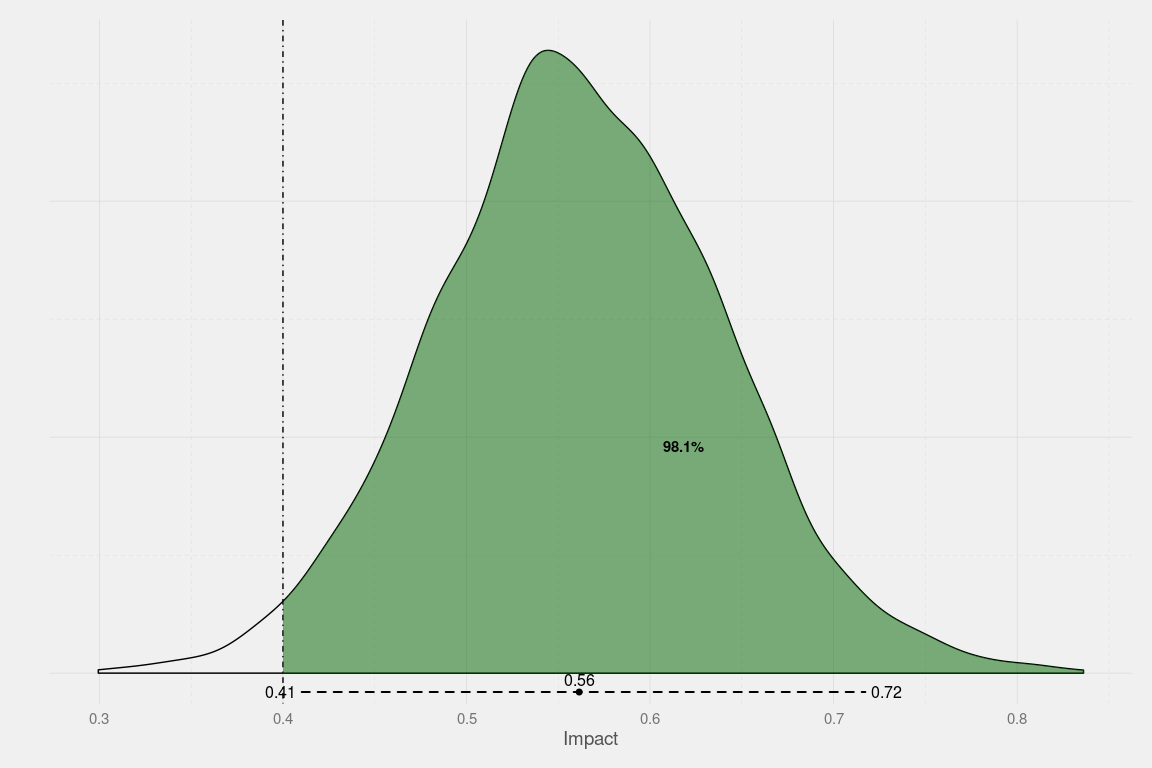
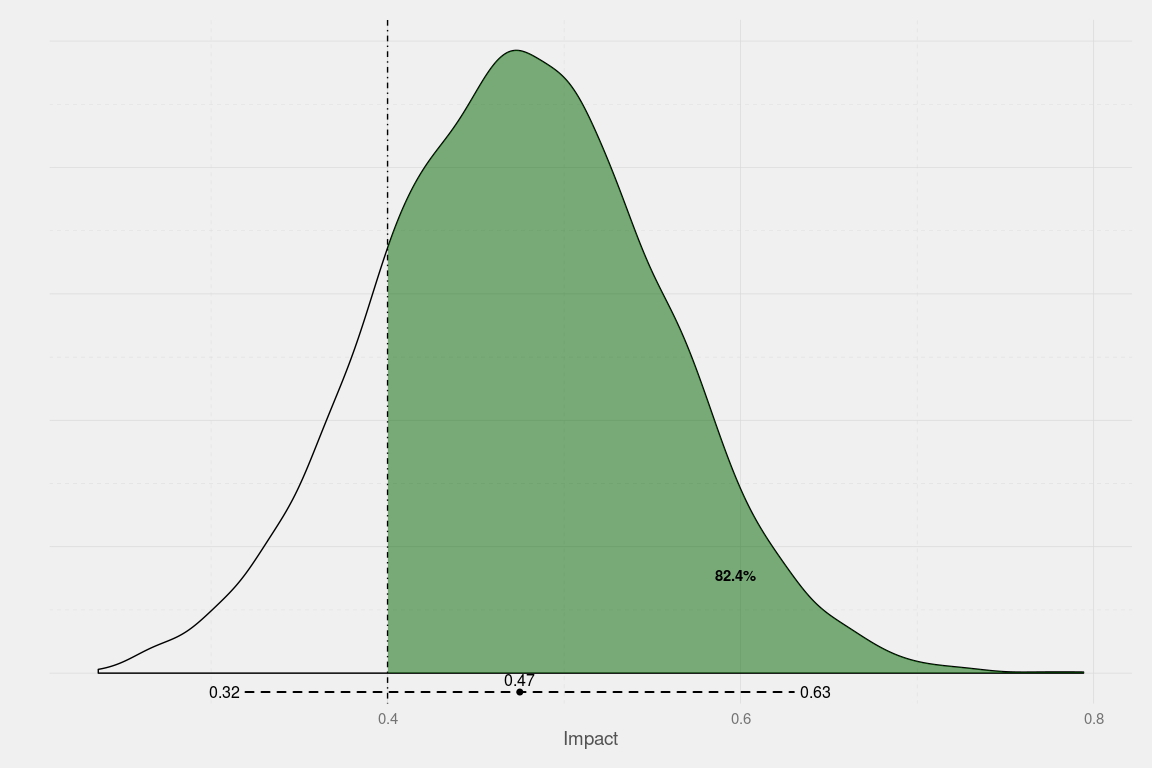
fixes bug. dnum was hardcoded in line 44 instead of cluster

diff --git a/README.md b/README.md
@@ -64,14 +64,14 @@ regtbl(lm1, type = "html", caption = "")
 x1
 </td>
 <td style="padding-right: 12px; border: none;">
-0.50<sup style="vertical-align: 0px;">\*</sup>
+0.52<sup style="vertical-align: 0px;">\*</sup>
 </td>
 </tr>
 <tr>
 <td style="padding-right: 12px; border: none;">
 </td>
 <td style="padding-right: 12px; border: none;">
-\[0.48; 0.52\]
+\[0.50; 0.54\]
 </td>
 </tr>
 <tr>
@@ -79,14 +79,14 @@ x1
 x2
 </td>
 <td style="padding-right: 12px; border: none;">
-0.77<sup style="vertical-align: 0px;">\*</sup>
+0.75<sup style="vertical-align: 0px;">\*</sup>
 </td>
 </tr>
 <tr>
 <td style="padding-right: 12px; border: none;">
 </td>
 <td style="padding-right: 12px; border: none;">
-\[0.75; 0.79\]
+\[0.73; 0.77\]
 </td>
 </tr>
 <tr>
@@ -94,14 +94,14 @@ x2
 Tr
 </td>
 <td style="padding-right: 12px; border: none;">
-0.56<sup style="vertical-align: 0px;">\*</sup>
+0.47<sup style="vertical-align: 0px;">\*</sup>
 </td>
 </tr>
 <tr>
 <td style="padding-right: 12px; border: none;">
 </td>
 <td style="padding-right: 12px; border: none;">
-\[0.41; 0.72\]
+\[0.32; 0.63\]
 </td>
 </tr>
 <tr>
@@ -109,14 +109,14 @@ Tr
 Constant
 </td>
 <td style="padding-right: 12px; border: none;">
--0.16
+-0.20
 </td>
 </tr>
 <tr>
 <td style="padding-right: 12px; border: none;">
 </td>
 <td style="padding-right: 12px; border: none;">
-\[-0.39; 0.08\]
+\[-0.43; 0.04\]
 </td>
 </tr>
 <tr>
@@ -156,23 +156,23 @@ gof.table(lm1, caption = "My caption!")
 <tbody>
 <tr class="odd">
 <td align="left"><pre><code>**x1**</code></pre></td>
-<td align="left"><p>1</p></td>
-<td align="left"><p>3091</p></td>
+<td align="left"><p>0.9999</p></td>
+<td align="left"><p>3506</p></td>
 </tr>
 <tr class="even">
 <td align="left"><pre><code>**x2**</code></pre></td>
 <td align="left"><p>1</p></td>
-<td align="left"><p>3333</p></td>
+<td align="left"><p>3237</p></td>
 </tr>
 <tr class="odd">
 <td align="left"><pre><code>**Tr**</code></pre></td>
-<td align="left"><p>0.9996</p></td>
-<td align="left"><p>3270</p></td>
+<td align="left"><p>1</p></td>
+<td align="left"><p>3322</p></td>
 </tr>
 <tr class="even">
 <td align="left"><p><strong>Constant</strong></p></td>
 <td align="left"><p>1</p></td>
-<td align="left"><p>3315</p></td>
+<td align="left"><p>2894</p></td>
 </tr>
 </tbody>
 </table>
@@ -188,11 +188,159 @@ posteriorplot(model = lm1, parameter = Tr, cutoff = 0.4)
 Clustered
 ---------
 
-Not working yet
+``` r
+lm1 <- stanlm(formula = y ~ x1 + x2 + Tr, cluster = c, data = df1)
+```
+
+### Regression table
 
 ``` r
-# lm1 <- stanlm(formula = y ~ x1 + x2 + Tr, cluster = c, data = df1)
+regtbl(lm1, type = "html", caption = "")
 ```
+
+<!DOCTYPE HTML PUBLIC "-//W3C//DTD HTML 4.01 Transitional//EN" "http://www.w3.org/TR/html4/loose.dtd">
+<table cellspacing="0" align="center" style="border: none;">
+<tr>
+<th style="text-align: left; border-top: 2px solid black; border-bottom: 1px solid black; padding-right: 12px;">
+<b></b>
+</th>
+<th style="text-align: left; border-top: 2px solid black; border-bottom: 1px solid black; padding-right: 12px;">
+<b>Model 1</b>
+</th>
+</tr>
+<tr>
+<td style="padding-right: 12px; border: none;">
+x1
+</td>
+<td style="padding-right: 12px; border: none;">
+0.52<sup style="vertical-align: 0px;">\*</sup>
+</td>
+</tr>
+<tr>
+<td style="padding-right: 12px; border: none;">
+</td>
+<td style="padding-right: 12px; border: none;">
+\[0.50; 0.54\]
+</td>
+</tr>
+<tr>
+<td style="padding-right: 12px; border: none;">
+x2
+</td>
+<td style="padding-right: 12px; border: none;">
+0.75<sup style="vertical-align: 0px;">\*</sup>
+</td>
+</tr>
+<tr>
+<td style="padding-right: 12px; border: none;">
+</td>
+<td style="padding-right: 12px; border: none;">
+\[0.73; 0.77\]
+</td>
+</tr>
+<tr>
+<td style="padding-right: 12px; border: none;">
+Tr
+</td>
+<td style="padding-right: 12px; border: none;">
+0.48<sup style="vertical-align: 0px;">\*</sup>
+</td>
+</tr>
+<tr>
+<td style="padding-right: 12px; border: none;">
+</td>
+<td style="padding-right: 12px; border: none;">
+\[0.30; 0.65\]
+</td>
+</tr>
+<tr>
+<td style="padding-right: 12px; border: none;">
+Constant
+</td>
+<td style="padding-right: 12px; border: none;">
+-0.20
+</td>
+</tr>
+<tr>
+<td style="padding-right: 12px; border: none;">
+</td>
+<td style="padding-right: 12px; border: none;">
+\[-0.44; 0.05\]
+</td>
+</tr>
+<tr>
+<td style="border-top: 1px solid black;">
+N
+</td>
+<td style="border-top: 1px solid black;">
+1000
+</td>
+</tr>
+<tr>
+<td style="border-bottom: 2px solid black;">
+Clusters
+</td>
+<td style="border-bottom: 2px solid black;">
+26
+</td>
+</tr>
+<tr>
+<td style="padding-right: 12px; border: none;" colspan="3">
+<span style="font-size:0.8em">\* 0 outside the credible interval.</span>
+</td>
+</tr>
+</table>
+### Goodness of fit
+
+``` r
+gof.table(lm1, caption = "My caption!")
+```
+
+<table style="width:50%;">
+<caption>My caption!</caption>
+<colgroup>
+<col width="23%" />
+<col width="12%" />
+<col width="13%" />
+</colgroup>
+<thead>
+<tr class="header">
+<th align="left"> </th>
+<th align="left">Rhat</th>
+<th align="left">n_eff</th>
+</tr>
+</thead>
+<tbody>
+<tr class="odd">
+<td align="left"><pre><code>**x1**</code></pre></td>
+<td align="left"><p>1</p></td>
+<td align="left"><p>4000</p></td>
+</tr>
+<tr class="even">
+<td align="left"><pre><code>**x2**</code></pre></td>
+<td align="left"><p>1</p></td>
+<td align="left"><p>4000</p></td>
+</tr>
+<tr class="odd">
+<td align="left"><pre><code>**Tr**</code></pre></td>
+<td align="left"><p>0.9999</p></td>
+<td align="left"><p>3056</p></td>
+</tr>
+<tr class="even">
+<td align="left"><p><strong>Constant</strong></p></td>
+<td align="left"><p>0.9995</p></td>
+<td align="left"><p>3086</p></td>
+</tr>
+</tbody>
+</table>
+
+### Plot
+
+``` r
+posteriorplot(model = lm1, parameter = Tr, cutoff = 0.4)
+```
+
+![](README-unnamed-chunk-10-1.png)<!-- -->
 
 How do I get it?
 ================
